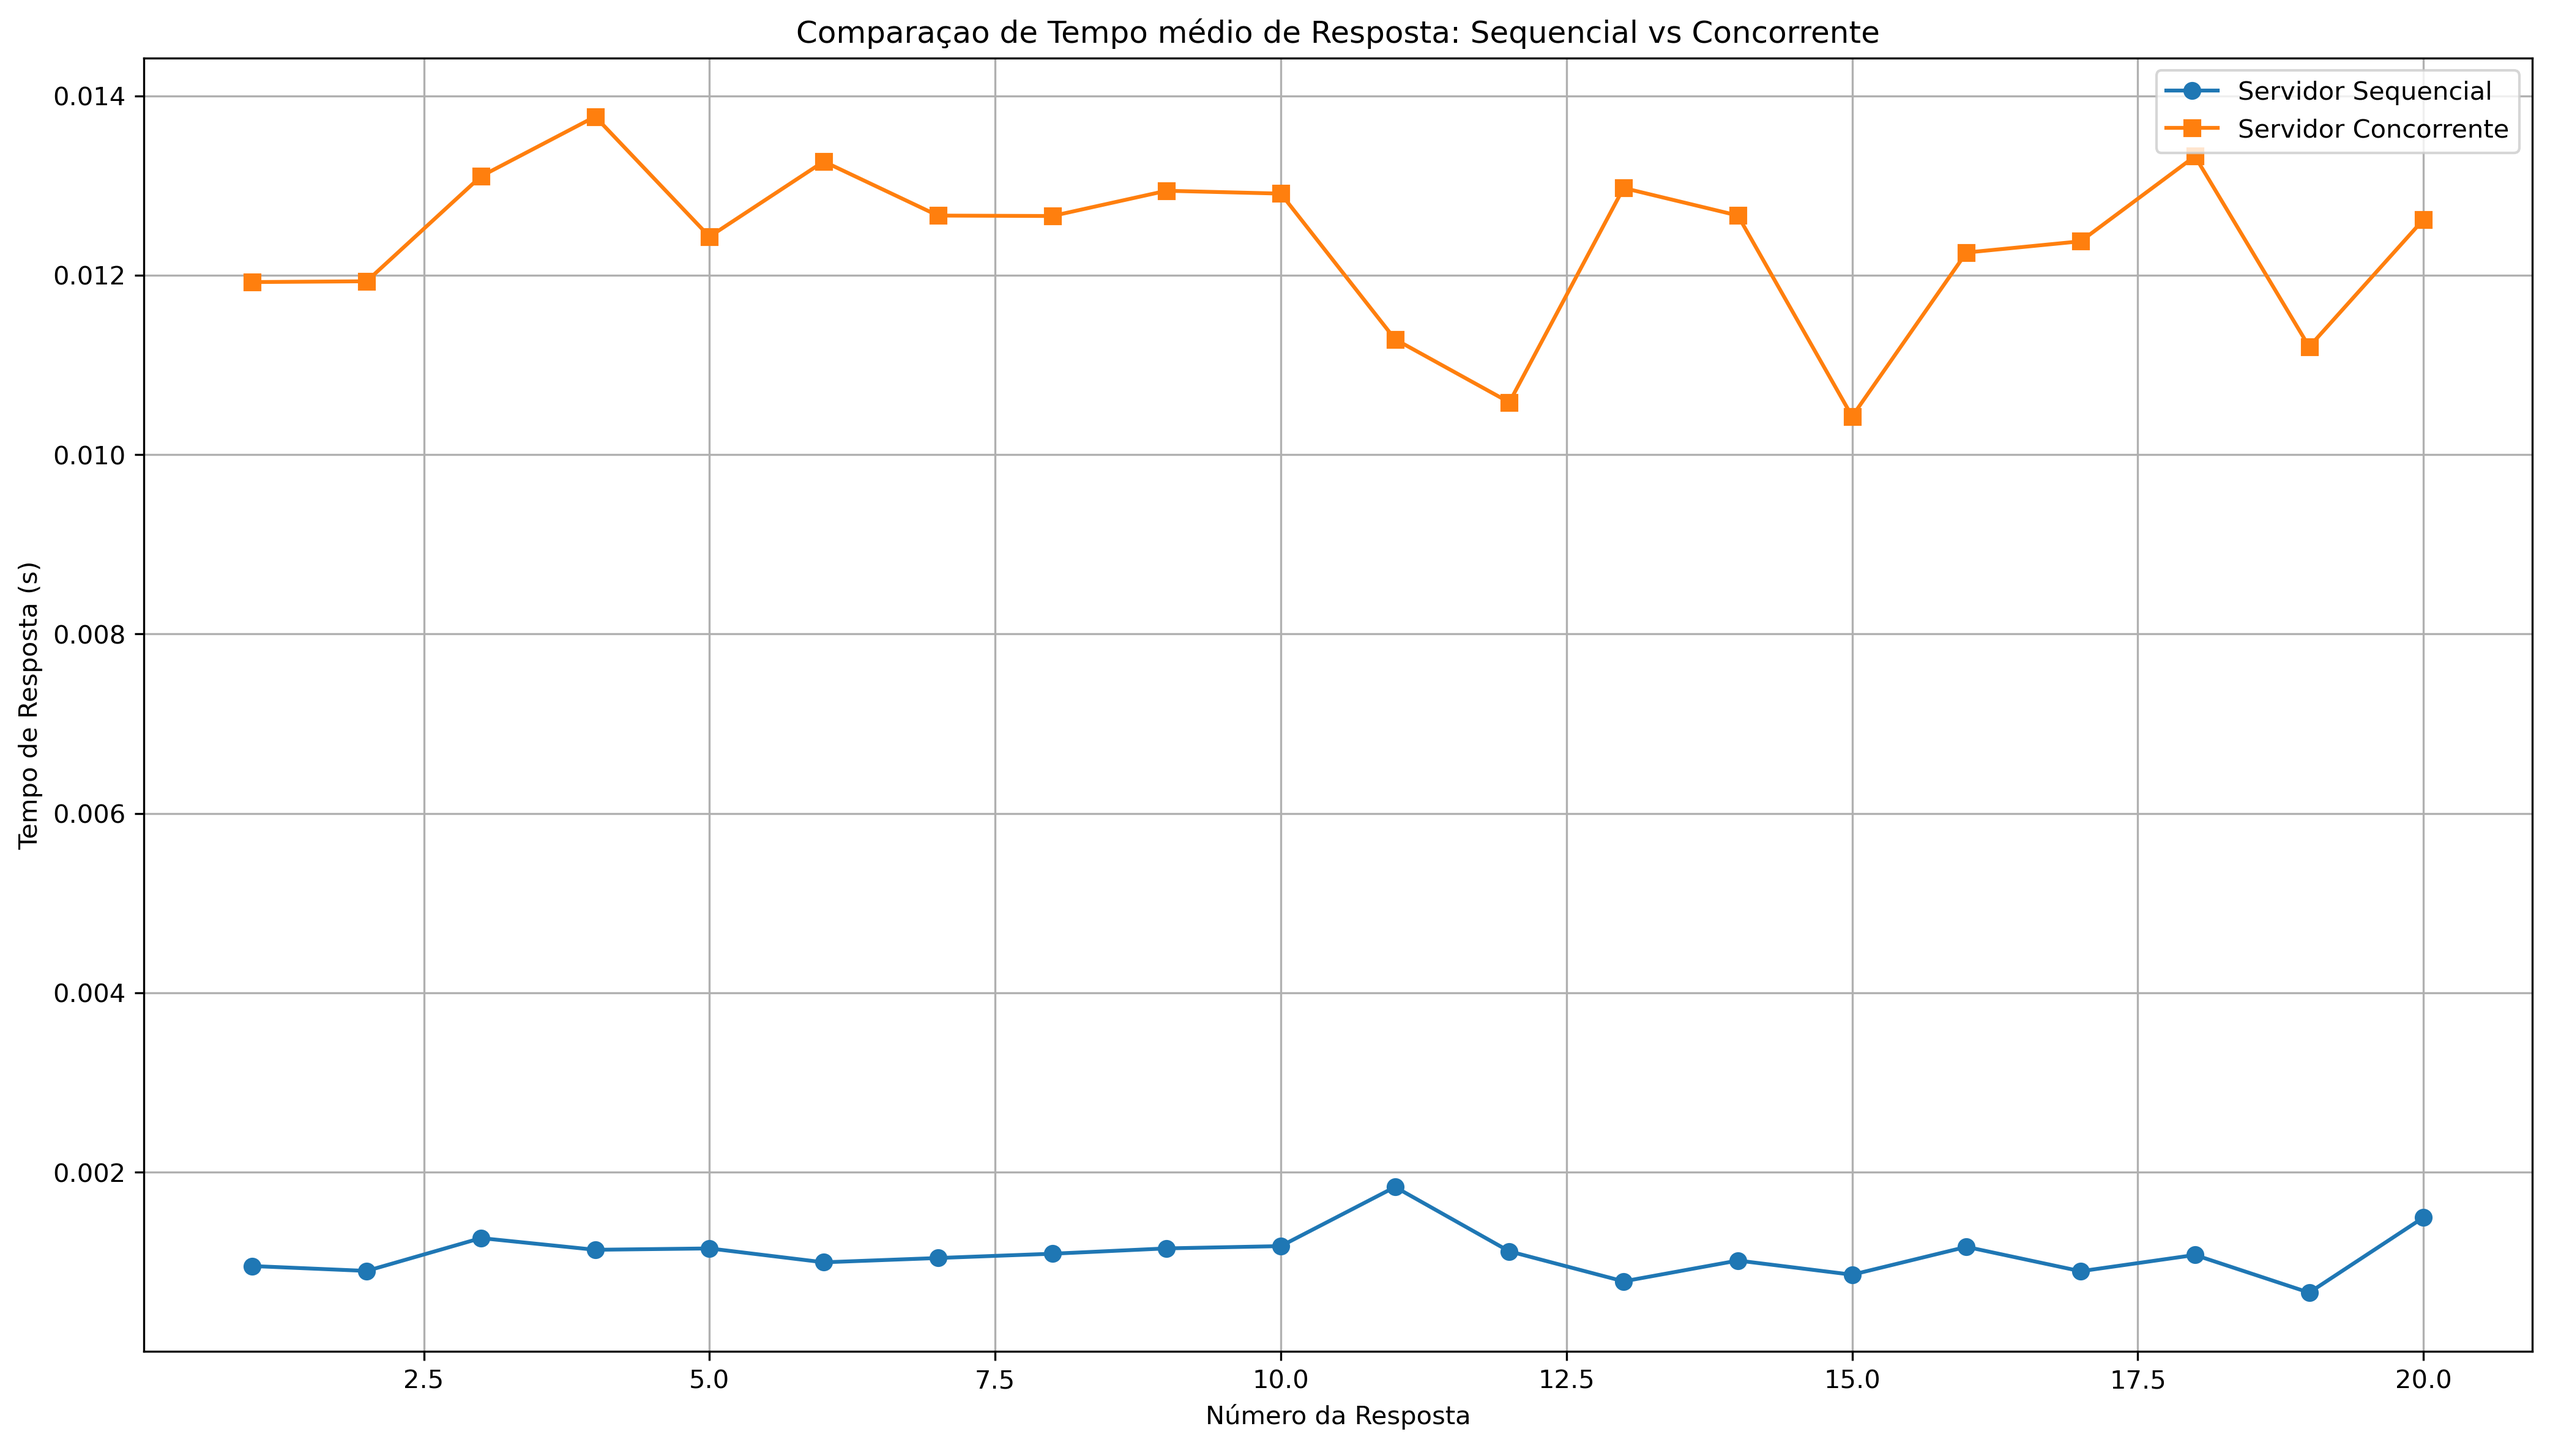
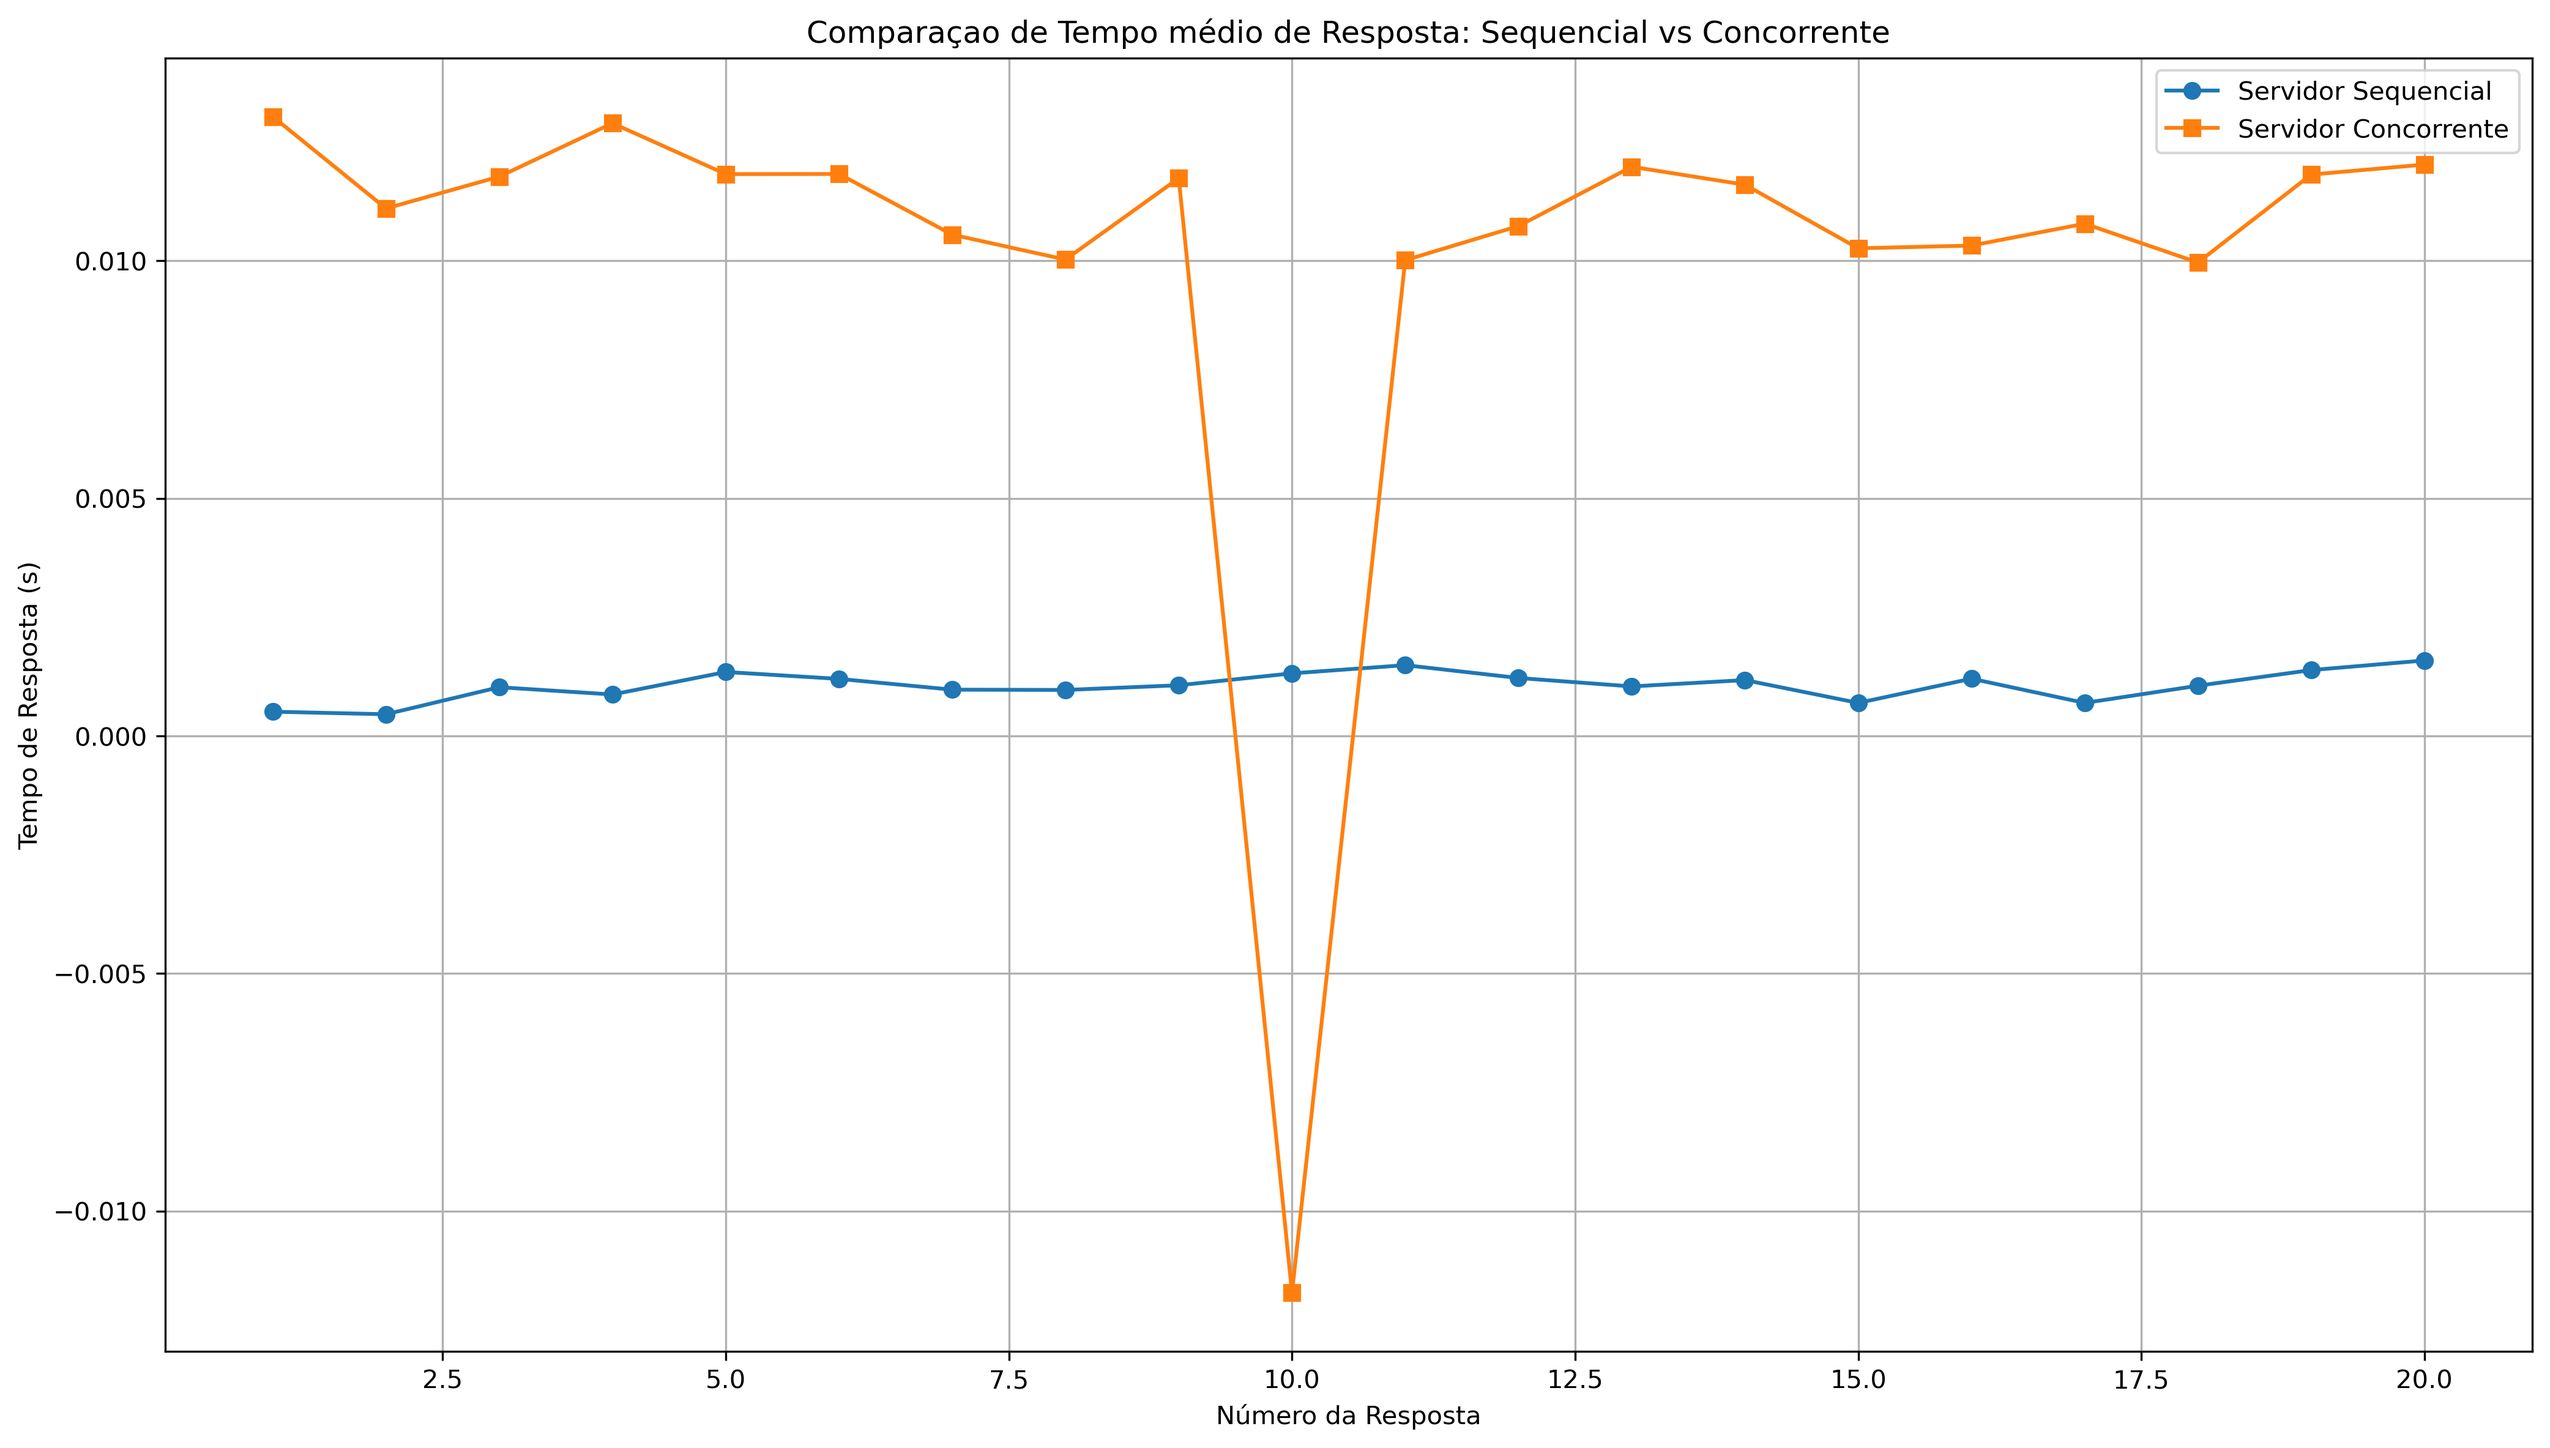
add algumas alterações

diff --git a/src/cliente/resultados.py b/src/cliente/resultados.py
@@ -1,7 +1,6 @@
 import numpy as np
 import matplotlib.pyplot as plt
 import pandas as pd
-from pathlib import Path
  
 import csv
 import os
@@ -26,20 +25,16 @@ def salvar_execucoes_csv(resultados, nome_servidor, arquivo='resultados/execucoe
             linha.update(execucao)
             linhas.append(linha)
     
-    if not linhas:
-        print("Nenhuma Resposta para salvar")
-        return
+    if linhas:
+        # Determinar todas as colunas
+        campos = ['timestamp', 'servidor', 'cenario', 'execucao', 'Falhas', 'Tempo_Total', 'Throughput', 'Requisicões Bem Sucedidas', 'Tempo_Medio_Resposta'] 
+
+        with open(arquivo, 'w', newline='', encoding='utf-8') as f:
+            writer = csv.DictWriter(f, fieldnames=campos)
+            writer.writeheader()
+            writer.writerows(linhas)
     
-    # Determinar todas as colunas: timestamp, servidor, cenario, execucao + chaves das métricas
-    campos = ['timestamp', 'servidor', 'cenario', 'execucao'] + \
-         sorted(set(linhas[0].keys()) - {'timestamp', 'servidor', 'cenario', 'execucao'})
-    
-    with open(arquivo, 'w', newline='', encoding='utf-8') as f:
-        writer = csv.DictWriter(f, fieldnames=campos)
-        writer.writeheader()
-        writer.writerows(linhas)
-    
-# Função para salvar estatísticas calculadas em CSV
+# Função para salvar estatisticas calculadas em CSV
 def salvar_estatisticas_csv(estatisticas, nome_servidor, arquivo='resultados/estatisticas.csv'):
    
     os.makedirs(os.path.dirname(arquivo) if os.path.dirname(arquivo) else '.', exist_ok=True)
@@ -59,25 +54,23 @@ def salvar_estatisticas_csv(estatisticas, nome_servidor, arquivo='resultados/est
             }
             linhas.append(linha)
 
-    if not linhas:
-        print("Nenhuma estatística para salvar")
-        return
+    if linhas:
+        campos = ['timestamp', 'servidor', 'cenario', 'metrica', 'media', 'desvio_padrao']
+        with open(arquivo, 'w', newline='', encoding='utf-8') as f:
+            writer = csv.DictWriter(f, fieldnames=campos)
+            writer.writeheader()
+            writer.writerows(linhas)
 
-    campos = ['timestamp', 'servidor', 'cenario', 'metrica', 'media', 'desvio_padrao']
-    with open(arquivo, 'w', newline='', encoding='utf-8') as f:
-        writer = csv.DictWriter(f, fieldnames=campos)
-        writer.writeheader()
-        writer.writerows(linhas)
+    
 
-# Calcula estatísticas (média e desvio padrão) para cada métrica
+# Calcula estatisticas (média e desvio padrão) para cada métrica
 def calcular_estatisticas(resultados):
     
     resultados_estatisticas = {}
     
     for cenario, execucoes in resultados.items():
         resultados_estatisticas[cenario] = {}
-        # execucoes == {'Tempo Total': , 'Tempo Medio': , 'Throughput': , 
-        #  'Requisicões Bem Sucedidas': , 'Falhas': }
+        
         campos = execucoes[0].keys()
         
         for campo in campos:
@@ -91,13 +84,12 @@ def calcular_estatisticas(resultados):
         
     return resultados_estatisticas
 
-# Mostra resultados estatísticos formatados no terminal
+# Mostra resultados estatisticos formatados no terminal
 def mostrar_resultados(estatisticas):
     
-    print('================================= RESULTADOS DAS ESTATÍSTICAS =================================')
+    print('================================= RESULTADOS DAS ESTATiSTICAS =================================')
     
     for cenario, metricas in estatisticas.items():
-        
         for metrica, valores in metricas.items():
             media = valores['Media']
             desvio = valores['Desvio Padrao']
@@ -164,7 +156,7 @@ def grafico_tempo_execucoes(arquivo_sincrono='resultados_sincrono.csv', arquivo_
 # Gera gráfico de barras comparando throughput médio   
 def grafico_barras_throughput(arquivo_sincrono='resultados_sincrono.csv', arquivo_assincrono='resultados_assincrono.csv', output='../../graficos/barras_throughput.png'):
 
-    # Diretório base e criaçao da pasta graficos
+    # Diretório base e criação da pasta graficos
     os.makedirs(os.path.dirname(output) if os.path.dirname(output) else '.', exist_ok=True)
 
     # Carregar dados
@@ -174,23 +166,32 @@ def grafico_barras_throughput(arquivo_sincrono='resultados_sincrono.csv', arquiv
     # Filtrar apenas a métrica Throughput
     tp_sincrono = df_sincrono.loc[df_sincrono['metrica'] == 'Throughput', 'media'].values[0]
     tp_assincrono = df_assincrono.loc[df_assincrono['metrica'] == 'Throughput', 'media'].values[0]
+    
+    # Obter desvio padrão
+    std_sincrono = df_sincrono.loc[df_sincrono['metrica'] == 'Throughput', 'desvio_padrao'].values[0]
+    std_assincrono = df_assincrono.loc[df_assincrono['metrica'] == 'Throughput', 'desvio_padrao'].values[0]
 
-    # Criar grafico de barras
+    # Criar gráfico de barras
     servidores = ['Sequencial', 'Concorrente']
     valores = [tp_sincrono, tp_assincrono]
+    desvios = [std_sincrono, std_assincrono]
 
     plt.figure(figsize=(8, 6))
     barras = plt.bar(servidores, valores, color=['skyblue', 'salmon'])
     
+    # Adicionar barras de erro (riscos)
+    plt.errorbar(servidores, valores, yerr=desvios, fmt='none', ecolor='black', 
+                 capsize=8, capthick=2, elinewidth=2)
+    
     plt.ylabel('Throughput')
-    plt.title('Comparaçao de Média de Throughput')
+    plt.title('Comparação de Média de Throughput')
     plt.grid(axis='y', linestyle='--', alpha=0.7)
 
     # Adicionar valores no topo das barras
-    for barra in barras:
+    for i, barra in enumerate(barras):
         altura = barra.get_height()
-        plt.text(barra.get_x() + barra.get_width()/2, altura + altura*0.01, f"{altura:.2f}", 
-                 ha='center', va='bottom')
+        plt.text(barra.get_x() + barra.get_width()/2, altura + desvios[i] + altura*0.01, 
+                 f"{altura:.2f}", ha='center', va='bottom')
 
     plt.tight_layout()
     plt.savefig(output, dpi=300, bbox_inches='tight')

diff --git a/src/cliente/testes.py b/src/cliente/testes.py
@@ -10,9 +10,7 @@ def teste_sequencial(metodo, caminho, num_requisicoes, cliente = None):
         ok, response_time, resposta = cliente.enviar_requisicao(metodo, caminho)
         if ok:
             print(f'------------------------------ Requisicao {i+1} ------------------------------')
-            # print(resposta)
             tempos.append(response_time)
-            # print(f'\t[{i+1}]  \t {response_time*1000:.2f} ms')
         else:
             falhas.append(resposta)
             print(f'\t[{i+1}]  \t Falha na requisicao: {resposta}')
@@ -39,16 +37,13 @@ def executar_cliente_concorrente(num_requisicoes, cliente = None, id_thread=0, m
         with lock:
             if ok:
                 print(f'---------------- Thread[{id_thread}] Req - {i+1}\t ----------------')
-                # print(resposta)
                 tempos.append(response_time)
-                # print(f'\tThread[{id_thread}]  Req - {i+1}\t {response_time*1000:.2f} ms')
             else:
                 falhas.append(resposta)
                 print(f'\tThread[{id_thread}]  Req - {i+1}\t Falha na requisicao: {resposta}')
     
 # Função que realiza testes concorrentes usando múltiplas threads 
 def teste_concorrente(metodo, caminho, num_requisicoes, num_threads, cliente = None, ):
-    # print(f"Realizando {num_requisicoes} requisicões concorrentes para {cliente.host}:{cliente.porta} com {num_threads} threads")
     
     tempos = []
     falhas = []

diff --git a/src/servidor_sincrono/servidorSincrono.py b/src/servidor_sincrono/servidorSincrono.py
@@ -5,7 +5,7 @@ import datetime
 import json
 from http import HTTPStatus
 
-PORT = 8080
+PORT = 80
 HOST = '0.0.0.0'
 
 # Gera um hash SHA1 fixo usado como ID esperado pelos clientes
@@ -42,7 +42,7 @@ class ServidorSequencial():
         finally:
             self.parar()
     
-    # Separa a primeira linha (ex: GET /status HTTP/1.1) e cabecalhos
+    # Separa a primeira linha (ex: GET / HTTP/1.1) e cabecalhos
     def dividir_requisicao(self, requisicao):
         cabecalhos = {}
         metodo_requisicao = None
@@ -105,7 +105,7 @@ class ServidorSequencial():
             'Duracao': f'{time.time() - tempo_inicial:.6f}s'
         }
         conteudo = f'Bem vindo ao servidor Concorrente!'
-        observacao = f'Metodo GET realizado na raiz'  
+        observacao = f'Metodo GET realizado'  
         
         resposta.update({
             'Mensagem': observacao,

diff --git a/src/servidor_assincrono/servidorAssincrono.py b/src/servidor_assincrono/servidorAssincrono.py
@@ -6,7 +6,7 @@ import json
 from http import HTTPStatus
 import threading
 
-PORT = 8080
+PORT = 80
 HOST = '0.0.0.0'
 MAX_CONEXOES = 5
 #novo cenario de testes
@@ -62,7 +62,7 @@ class ServidorConcorrente():
                 self.conexoes_ativas-=1
             # print(f'conexao {id_conexao} finalizada | Ativas :{self.conexoes_ativas}')
     
-    # Separa a primeira linha (ex: GET /status HTTP/1.1)
+    # Separa a primeira linha (GET / HTTP/1.1)
     def dividir_requisicao(self, requisicao):
         cabecalhos = {}
         metodo_requisicao = None
@@ -128,7 +128,7 @@ class ServidorConcorrente():
             
         }
         conteudo = f'Bem vindo ao servidor Concorrente!'
-        observacao = f'Metodo GET realizado na raiz'
+        observacao = f'Metodo GET realizado'
             
         
         resposta.update({

diff --git a/src/cliente/cliente.py b/src/cliente/cliente.py
@@ -65,10 +65,10 @@ class Cliente():
 if __name__ == "__main__":
     # Aguarda os servidores ficarem disponiveis
     servidor_host_sincrono = 'servidor-sincrono'
-    servidor_porta_sincrono = 8080
+    servidor_porta_sincrono = 80
     
     servidor_host_assincrono = 'servidor-assincrono' 
-    servidor_porta_assincrono = 8080
+    servidor_porta_assincrono = 80
     
     resultados_sincrono = {}
     resultados_assincrono = {}
